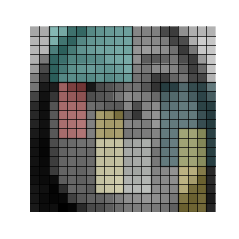
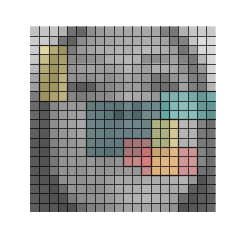
cleanup + better sample from plot_mblbp

diff --git a/script/plot_mblbp.py b/script/plot_mblbp.py
@@ -11,6 +11,9 @@ import matplotlib.animation as animation
 import matplotlib.image as mpimg
 from PIL import Image
 
+COLORS = ['#1a535c', '#4ecdc4', '#ff6b6b', '#ffe66d', '#ffe66d',
+          '#ff6b6b', '#4ecdc4', '#1a535c']
+
 def plot_animated_mblbp(window_w, window_h):
 
     dpi = 96
@@ -21,7 +24,7 @@ def plot_animated_mblbp(window_w, window_h):
 
     ax = plt.axes(xlim=(0, 20), ylim=(0, 20))
     ax.imshow(img, interpolation='none', cmap=plt.get_cmap('gray'),
-              extent=[0, 20, 20, 0])
+              extent=[0, 20, 20, 0], alpha=0.7)
     ax.set_ylim(ax.get_ylim()[::-1]) # invert y-axis
     ax.xaxis.tick_top() # move x-axis to the top
     ax.xaxis.set_ticks(range(1, 21))
@@ -52,10 +55,6 @@ def plot_animated_mblbp(window_w, window_h):
                     }
                     features.append(feature)
 
-    colors = '1a535c-4ecdc4-ff6b6b-ffe66d-f7fff7-ffe66d-ff6b6b-4ecdc4-1a535c'
-    colors = ['#{}'.format(c) for c in colors.split('-')]
-    patterns = ['x', 'o', 'O', '*']
-
     random.shuffle(features)
     sample = random.sample(features, 6)
 
@@ -63,8 +62,7 @@ def plot_animated_mblbp(window_w, window_h):
         rectangle = patches.Rectangle(
             (feature['offset_x'], feature['offset_y']),
             feature['block_w'], feature['block_h'],
-            facecolor=colors[i], linewidth=1, alpha=0.4,
-            # hatch=random.choice(patterns)
+            facecolor=COLORS[i], linewidth=1, alpha=0.4,
         )
         ax.add_patch(rectangle)
 
